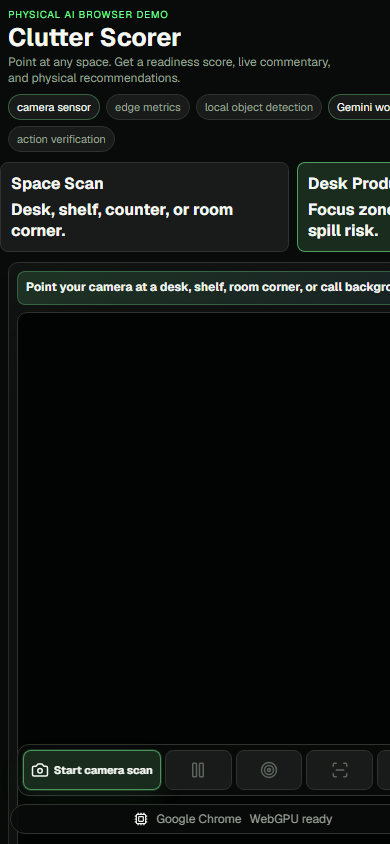
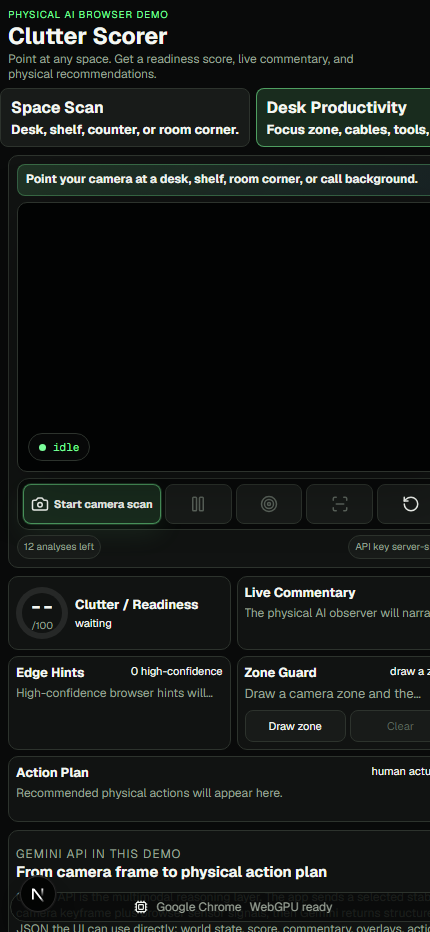
Tighten mobile first fold layout

diff --git a/app/globals.css b/app/globals.css
@@ -943,12 +943,12 @@ h3 {
   }
 
   .app-header {
-    gap: 8px;
-    margin-bottom: 8px;
+    gap: 5px;
+    margin-bottom: 6px;
   }
 
   h1 {
-    font-size: 25px;
+    font-size: 23px;
   }
 
   .eyebrow {
@@ -958,9 +958,9 @@ h3 {
 
   .app-subtitle {
     font-size: 12px;
-    line-height: 1.3;
-    margin-top: 5px;
-    max-width: 330px;
+    line-height: 1.25;
+    margin-top: 4px;
+    max-width: 360px;
   }
 
   .capability-pill {
@@ -973,6 +973,7 @@ h3 {
   }
 
   .loop {
+    display: none;
     gap: 6px;
     overflow-x: auto;
     padding-bottom: 2px;
@@ -995,8 +996,8 @@ h3 {
 
   .mode-selector {
     display: flex;
-    gap: 8px;
-    margin: 0 -8px 8px;
+    gap: 6px;
+    margin: 0 -8px 6px;
     overflow-x: auto;
     padding: 0 8px 2px;
     scroll-snap-type: x mandatory;
@@ -1008,10 +1009,16 @@ h3 {
   }
 
   .mode-card {
-    flex: 0 0 64%;
-    min-height: 62px;
-    padding: 10px;
+    flex: 0 0 auto;
+    min-height: 38px;
+    padding: 8px 10px;
     scroll-snap-align: start;
+  }
+
+  .mode-card span {
+    font-size: 13px;
+    line-height: 1.15;
+    white-space: nowrap;
   }
 
   .mode-card small {
@@ -1029,8 +1036,8 @@ h3 {
 
   .demo-brief {
     gap: 3px;
-    margin-bottom: 7px;
-    padding: 8px;
+    margin-bottom: 6px;
+    padding: 7px 8px;
   }
 
   .demo-brief strong {
@@ -1066,12 +1073,18 @@ h3 {
   }
 
   .right-rail {
-    gap: 8px;
+    display: grid;
+    gap: 6px;
+    grid-template-columns: repeat(2, minmax(0, 1fr));
     min-width: 0;
   }
 
+  .action-panel {
+    grid-column: 1 / -1;
+  }
+
   .camera-frame {
-    aspect-ratio: 3 / 4;
+    aspect-ratio: 16 / 10;
     border-radius: 10px;
     max-height: none;
   }
@@ -1094,13 +1107,11 @@ h3 {
     background: rgba(9, 10, 10, 0.9);
     border: 1px solid var(--line);
     border-radius: 12px;
-    bottom: 48px;
     display: grid;
     gap: 4px;
     grid-template-columns: repeat(6, minmax(0, 1fr));
     margin-top: 6px;
     padding: 5px;
-    position: sticky;
     z-index: 25;
   }
 
@@ -1128,7 +1139,7 @@ h3 {
 
   .demo-usage {
     gap: 5px;
-    margin-top: 6px;
+    margin-top: 5px;
   }
 
   .demo-usage span {
@@ -1142,8 +1153,9 @@ h3 {
 
   .score-panel {
     align-items: center;
-    gap: 8px;
-    grid-template-columns: 58px minmax(0, 1fr);
+    gap: 7px;
+    grid-template-columns: 52px minmax(0, 1fr);
+    min-height: 74px;
   }
 
   .score-ring strong {
@@ -1175,6 +1187,47 @@ h3 {
     display: none;
   }
 
+  .commentary-panel,
+  .edge-hints-panel,
+  .zone-panel,
+  .action-panel {
+    min-height: 66px;
+  }
+
+  .commentary-panel .panel-heading,
+  .edge-hints-panel .panel-heading,
+  .zone-panel .panel-heading,
+  .action-panel .panel-heading {
+    margin-bottom: 4px;
+  }
+
+  .commentary-panel .empty,
+  .edge-hints-panel .empty,
+  .zone-panel .panel-note,
+  .action-panel .empty,
+  .action-item p {
+    display: -webkit-box;
+    line-clamp: 1;
+    -webkit-line-clamp: 1;
+    -webkit-box-orient: vertical;
+    overflow: hidden;
+  }
+
+  .zone-actions {
+    gap: 4px;
+    margin-top: 6px;
+  }
+
+  .zone-actions button {
+    font-size: 11px;
+    min-height: 32px;
+    padding: 0 6px;
+  }
+
+  .zone-readout {
+    display: none;
+  }
+
   .metric-grid,
   .subscore-list,
   .subscore-grid,
@@ -1189,22 +1242,32 @@ h3 {
   }
 
   .panel {
-    padding: 9px;
+    padding: 7px;
   }
 
   .panel-heading {
     align-items: flex-start;
     gap: 6px;
     margin-bottom: 7px;
+    min-width: 0;
   }
 
   .panel-heading h2 {
     font-size: 13px;
+    min-width: 0;
   }
 
   .panel-heading span {
     font-size: 11px;
+    min-width: 0;
+    overflow: hidden;
     text-align: right;
+    text-overflow: ellipsis;
+    white-space: nowrap;
+  }
+
+  .action-panel .panel-heading span {
+    display: none;
   }
 
   .chip-list {

diff --git a/components/ActionPlanPanel.tsx b/components/ActionPlanPanel.tsx
@@ -4,7 +4,7 @@ import type { AnalysisResponse } from "../lib/types";
 
 export function ActionPlanPanel({ analysis }: { analysis: AnalysisResponse | null }) {
   return (
-    <section className="panel">
+    <section className="panel action-panel">
       <div className="panel-heading">
         <h2>Action Plan</h2>
         <span>human actuator</span>

diff --git a/components/LocalDetectionsPanel.tsx b/components/LocalDetectionsPanel.tsx
@@ -4,7 +4,7 @@ import type { LocalDetection } from "../lib/types";
 
 export function LocalDetectionsPanel({ detections }: { detections: LocalDetection[] }) {
   return (
-    <section className="panel">
+    <section className="panel edge-hints-panel">
       <div className="panel-heading">
         <h2>Edge Hints</h2>
         <span>{detections.length} high-confidence</span>